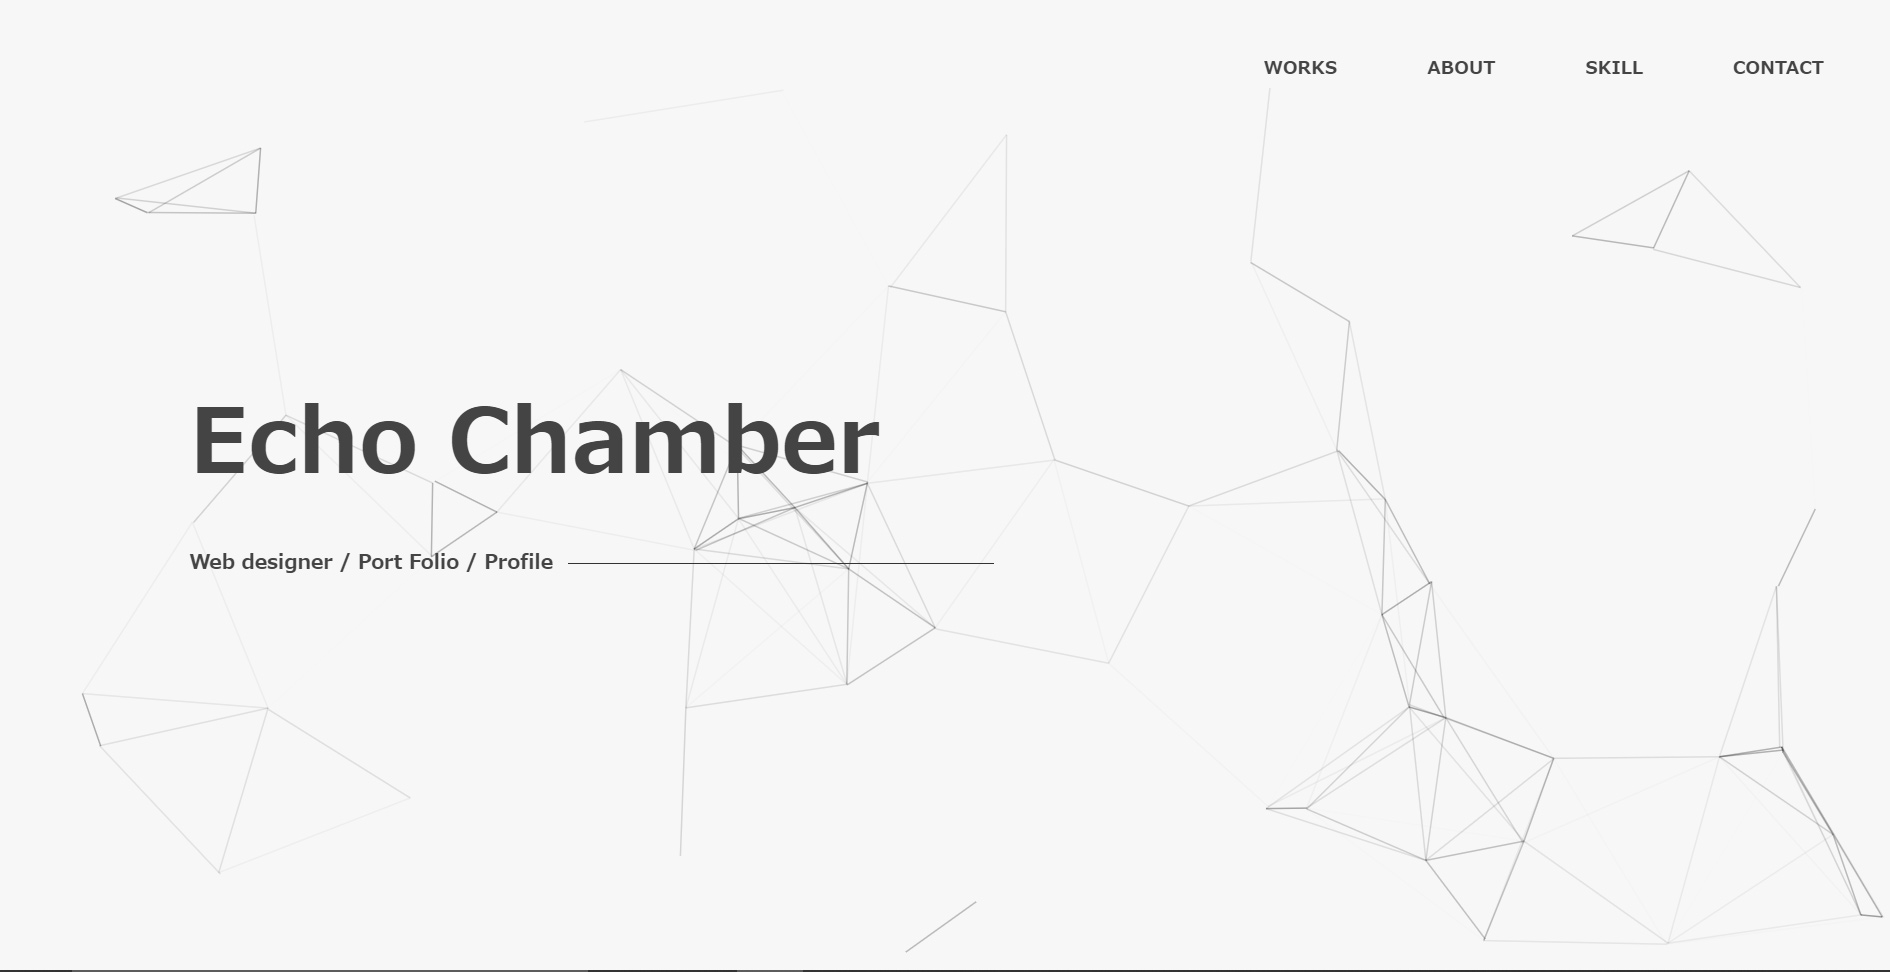
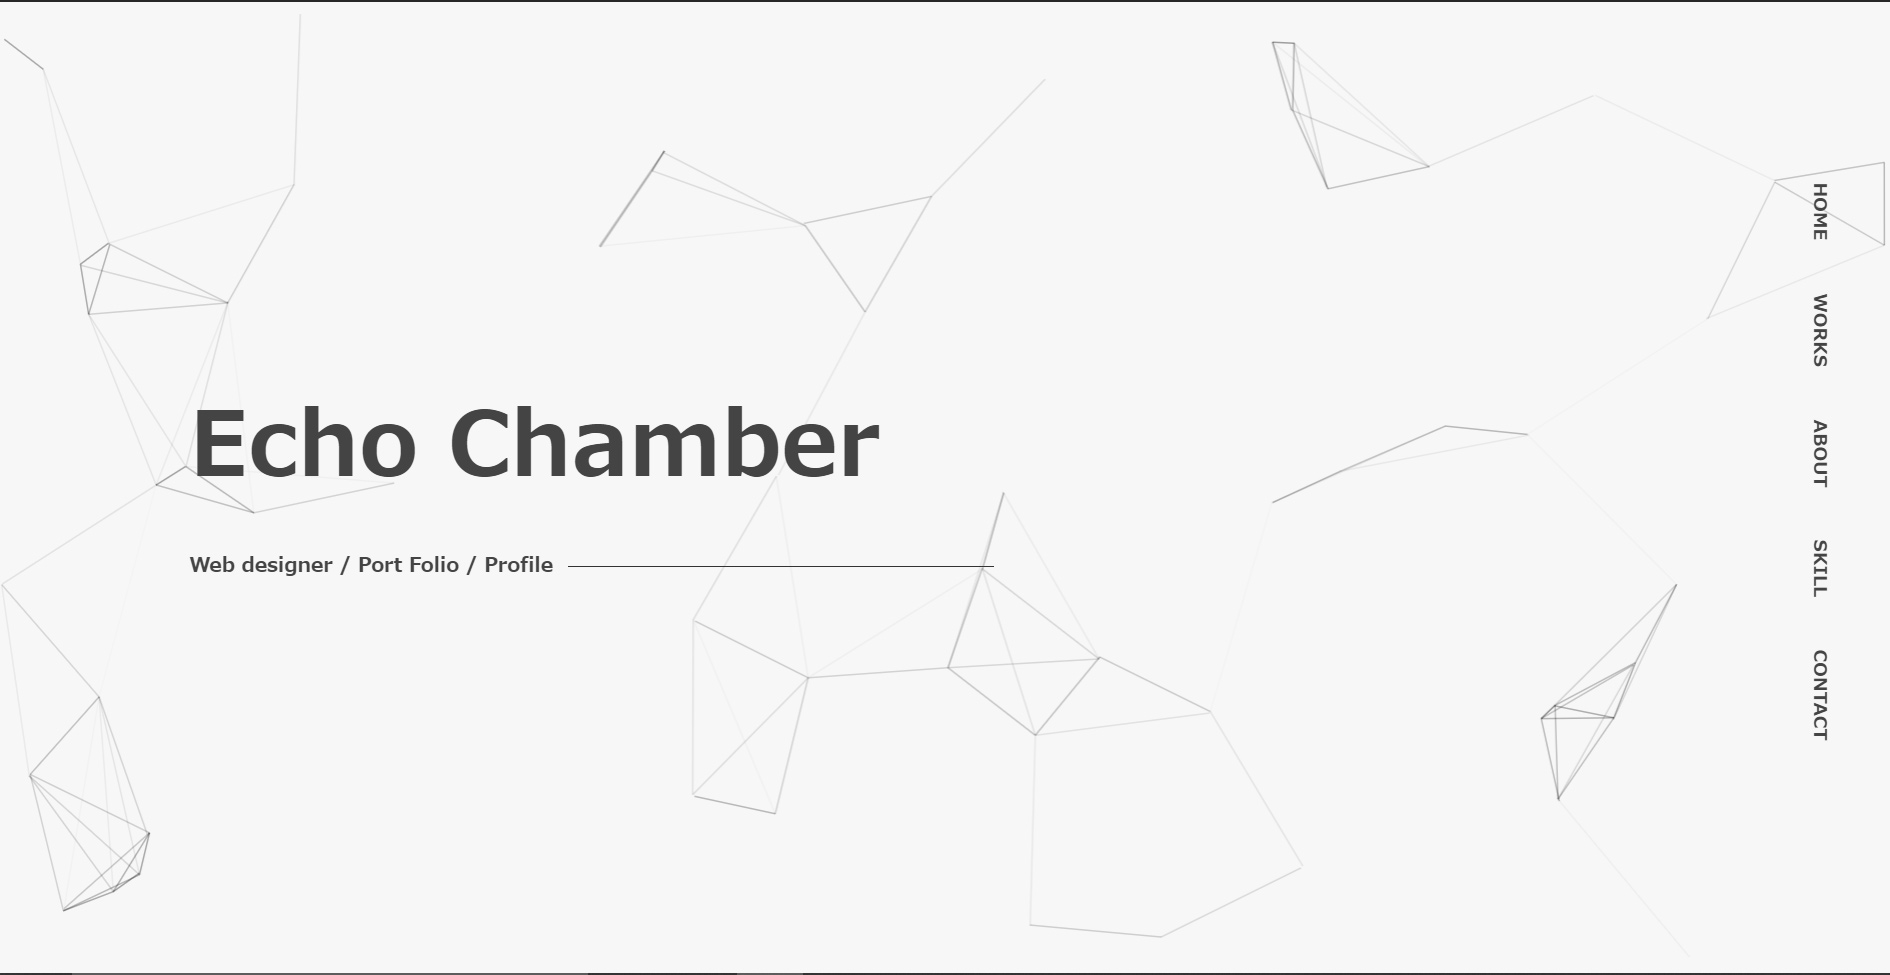
no message

diff --git a/scss/section/_about.scss b/scss/section/_about.scss
@@ -1,14 +1,12 @@
 .about{
     position: relative;
-    width: 100%;
-    height: 100vh;
-    scroll-snap-align: start;
-
-    @include mq("sp"){
-        height: 150vh;
-    }
 
     &__title{
+
+        @include mq("tab"){
+            text-align: center;
+        }
+
         h2{
             font-size: rem(50);
             font-weight: bold;
@@ -21,13 +19,23 @@
         }
     }
 
-    &__name{
+    &__infos{
         margin-top: 20px;
+        display: flex;
+        flex-wrap: wrap;
+
+        @include mq("tab"){
+            flex-direction: column;
+        }
+    }
+
+    &__name{
         transition: all .3s;
 
-        @include mq("sp"){
-            margin-top: 30px;
+        @include mq("tab"){
+            text-align: center;
         }
+
         h3{
             font-size: rem(28);
             font-weight: bold;
@@ -50,17 +58,42 @@
         }
     }
 
+    &__img{
+        width: 50%;
+        img{
+            width: 300px;
+        }
+
+        @include mq("tab"){
+            text-align: center;
+            width: 100%;
+        }
+    }
+
+    &__info{
+        width: 50%;
+
+        @include mq("tab"){
+            margin-top: 30px;
+            width: 100%;
+        }
+    }
+
     &__text{
         margin-top: 20px;
+
+        @include mq("tab"){
+            text-align: center;
+        }
         p{
             font-size: rem(13);
-            line-height: 1.5em;
+            line-height: 1.8em;
             color: #444;
             letter-spacing: .1em;
             transition: all .3s;
 
             @include mq("sp"){
-                font-size: rem(12);
+                font-size: rem(11);
             }
         }
     }
@@ -70,16 +103,7 @@
         transition: all .3s;
 
         @include mq("tab"){
-            margin-top: 20px;
-        }
-
-        h3{
-            margin-bottom: 10px;
-            transition: all .3s;
-
-            @include mq("sp"){
-                font-size: rem(14);
-            }
+            margin-top: 50px;
         }
     }
 

diff --git a/scss/layout/_header.scss b/scss/layout/_header.scss
@@ -2,32 +2,16 @@
     position: fixed;
     z-index: 1;
     transform: translate(-50%,-50%);
-    top: 5%;
-    left: 50%;
-    transition: all .3s;
-
-    @include mq("sp"){
-        writing-mode: vertical-lr;
-        top: 50%;
-        left: 93%;
-    }
+    writing-mode: vertical-lr;
+    top: 50%;
+    left: 96%;
 
     &__nav{
         ul{
             display: flex;
             justify-content: center;
             li{
-                transition: all .3s;
-                margin-right: 60px;
-
-                @include mq("sp"){
-                    margin-bottom: 50px;
-                    margin-right: 0;
-                }
-
-                &:last-child{
-                    margin-right: 0;
-                }
+                margin-bottom: 35px;
                 a{
                     font-size: rem(12);
                     font-weight: bold;

diff --git a/scss/section/_skill.scss b/scss/section/_skill.scss
@@ -1,19 +1,12 @@
 .skill{
     position: relative;
-    width: 100%;
-    height: 200vh;
-    scroll-snap-align: start;
-    transition: all .3s;
-
-    @include mq("tab"){
-        height:  140vh;
-    }
-
-    @include mq("sp"){
-        height: 300vh;
-    }
 
     &__title{
+
+        @include mq("tab"){
+            text-align: center;
+        }
+
         h2{
             font-size: rem(50);
             font-weight: bold;

diff --git a/js/script.js b/js/script.js
@@ -1,3 +1,13 @@
+$(function(){
+  $('a[href^="#"]').click(function(){
+    let speed = 500;
+    let href= $(this).attr("href");
+    let target = $(href == "#" || href == "" ? 'html' : href);
+    let position = target.offset().top;
+    $("html, body").animate({scrollTop:position}, speed, "swing");
+    return false;
+  });
+});
 
 $('.js-modal-open').on('click', function(){
   var target = $(this).data('target');

diff --git a/scss/layout/_footer.scss b/scss/layout/_footer.scss
@@ -1,14 +1,8 @@
 .footer{
-    position: absolute;
-    bottom: 100px;
-    left: 50%;
-    transform: translate(-50%,-50%);
+    padding: 30px 0;
+    text-align: center;
 
-    &__small{
-        text-align: center;
-
-        @include mq("sp"){
-            font-size: rem(12);
-        }
+    @include mq("sp"){
+        font-size: rem(12);
     }
 }

diff --git a/scss/section/_contact.scss b/scss/section/_contact.scss
@@ -1,15 +1,10 @@
 .contact{
     position: relative;
-    width: 100%;
-    height: 120vh;
-    scroll-snap-align: start;
-
-    @include mq("sp"){
-        margin-top: 200px;
-        height: 130vh;
-    }
 
     &__title{
+        @include mq("tab"){
+            text-align: center;
+        }
         
         h2{
             font-size: rem(50);

diff --git a/scss/section/_work.scss b/scss/section/_work.scss
@@ -1,14 +1,11 @@
 .work{
     position: relative;
-    width: 100%;
-    height: 100vh;
-    scroll-snap-align: start;
-
-    @include mq("tab"){
-      height: 350vh;
-    }
 
     &__title{
+
+      @include mq("tab"){
+        text-align: center;
+    }
 
       @include mq("sp"){
         text-align: center;

diff --git a/scss/layout/_inner.scss b/scss/layout/_inner.scss
@@ -1,9 +1,9 @@
 .inner{
     width: 100%;
     margin: 0 auto;
-    padding: 70px 70px;
+    padding: 100px;
 
     @include mq("sp"){
-        padding: 70px 70px 70px 50px;
+        padding: 60px 60px 60px 30px;
     }
 }

diff --git a/scss/section/_hero.scss b/scss/section/_hero.scss
@@ -1,8 +1,6 @@
 .hero{
     position: relative;
-    width: 100%;
     height: 100vh;
-    scroll-snap-align: start;
 
     &__title{
         transition: all .3s;

diff --git a/scss/setting/_modal.scss b/scss/setting/_modal.scss
@@ -29,7 +29,7 @@
 .modal-bg {
   position: absolute;
   height: 100vh;
-  width: 100%;
+  width: 150%;
   background: rgba(0, 0, 0, 0.8);
 }
 

diff --git a/scss/base/_base.scss b/scss/base/_base.scss
@@ -1,7 +1,3 @@
-html,body{
-    height: 100%;
-}
-
 html{
     font-size: 100%;
 }

diff --git a/scss/layout/_section.scss b/scss/layout/_section.scss
@@ -1,0 +1,3 @@
+section{
+    margin-top: 150px;
+}
